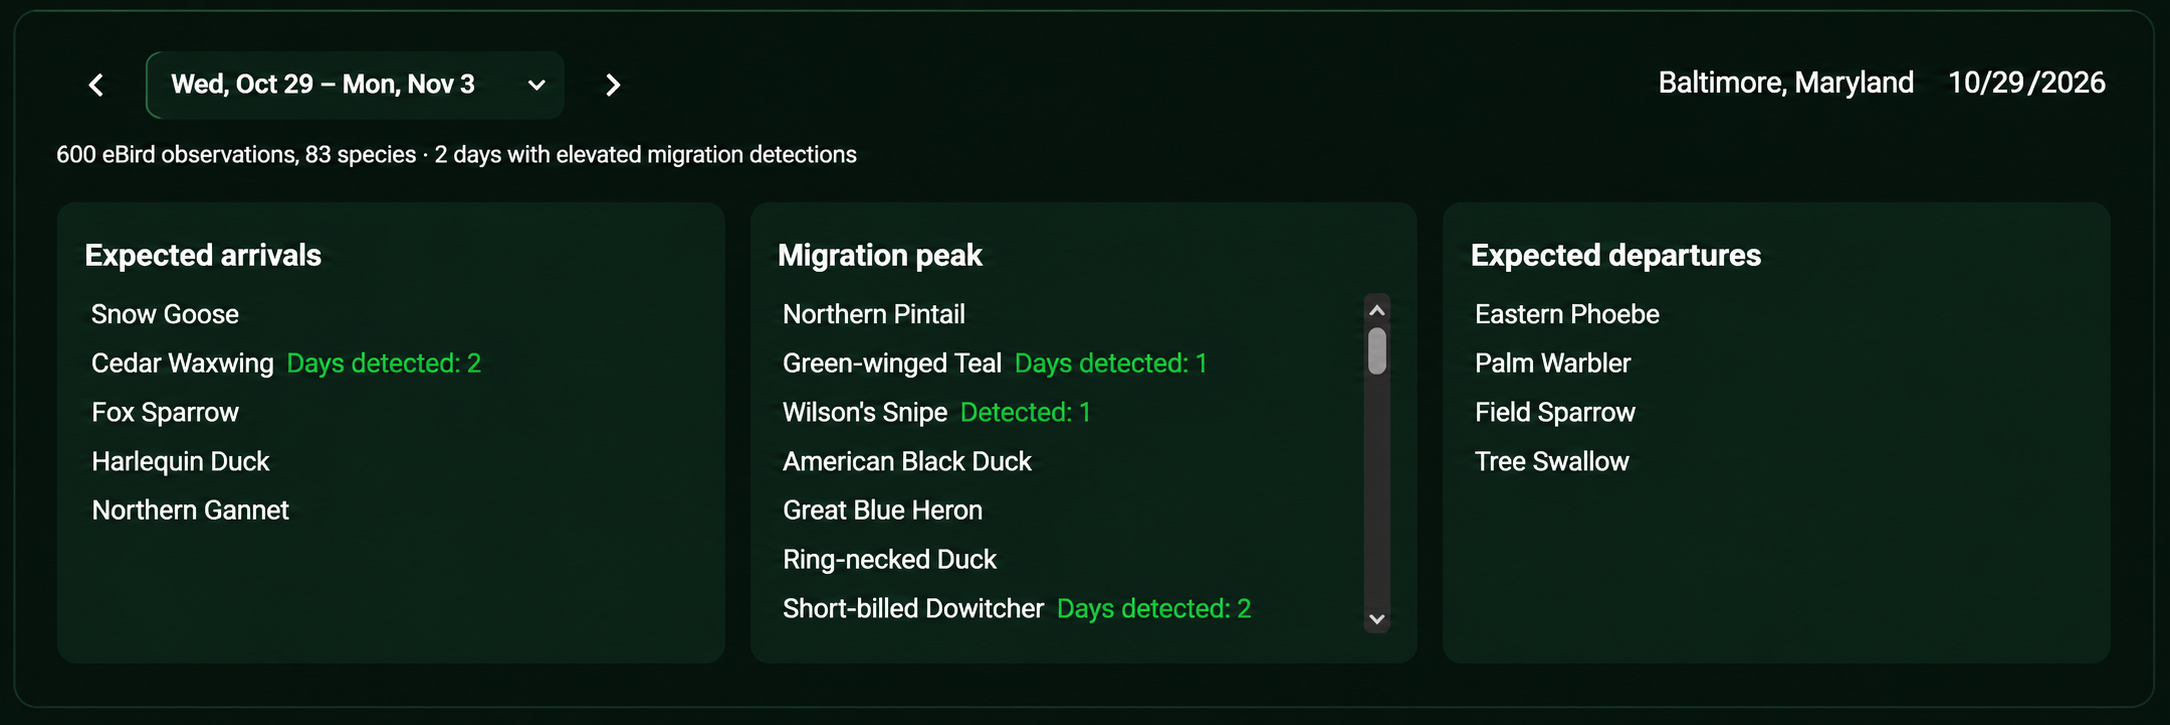
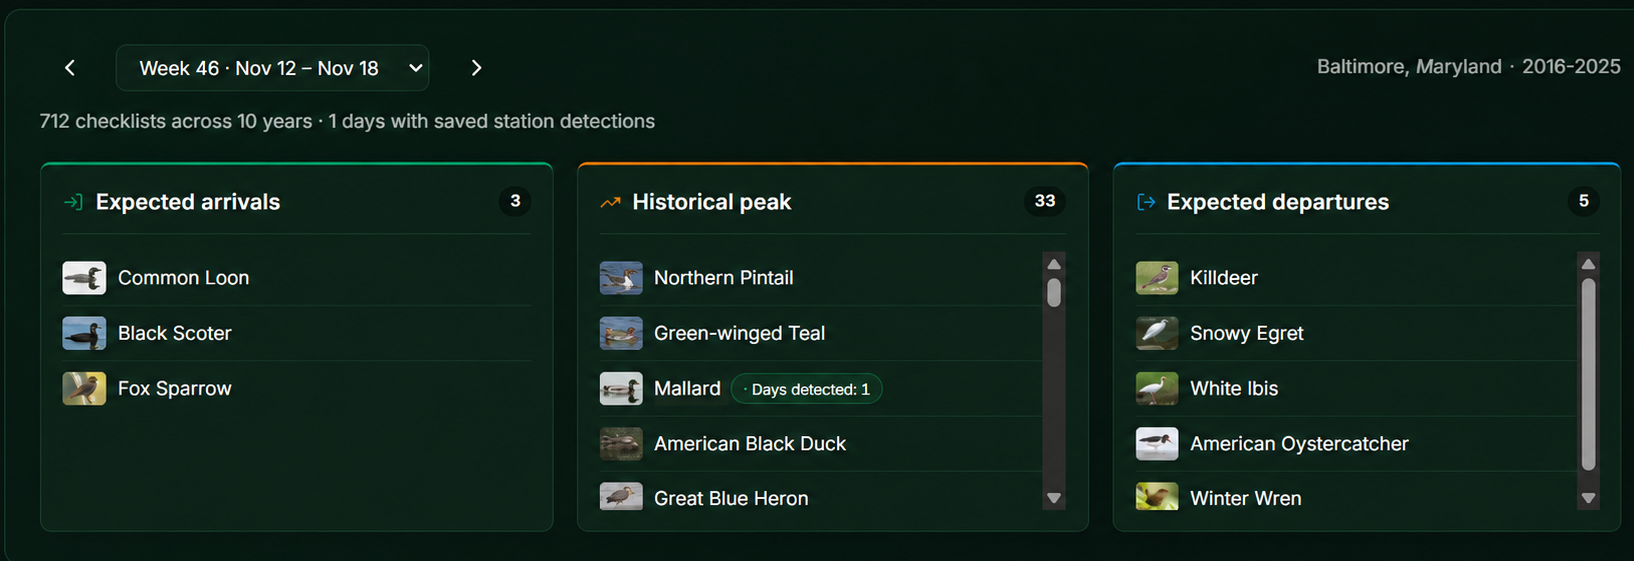
docs: update calendar and species screenshots

diff --git a/README.md b/README.md
@@ -21,7 +21,7 @@ A custom fork of BirdNET-Go with additional tools for exploring local bird and w
 **Detection details** — Review species confidence and open eBird profiles or Cornell's call comparisons.
 
 <p align="center">
-  <img src="images/ui3.png" alt="Baltimore Oriole species panel with verification status, confidence, and eBird and Compare calls links" width="612" />
+  <img src="images/ui3.png" alt="Ruby-crowned Kinglet species panel with confidence, lifetime detection count, and eBird and Compare calls links" width="526" />
 </p>
 
 The calendar uses a private local eBird import and refreshes automatically when its watcher is running.
